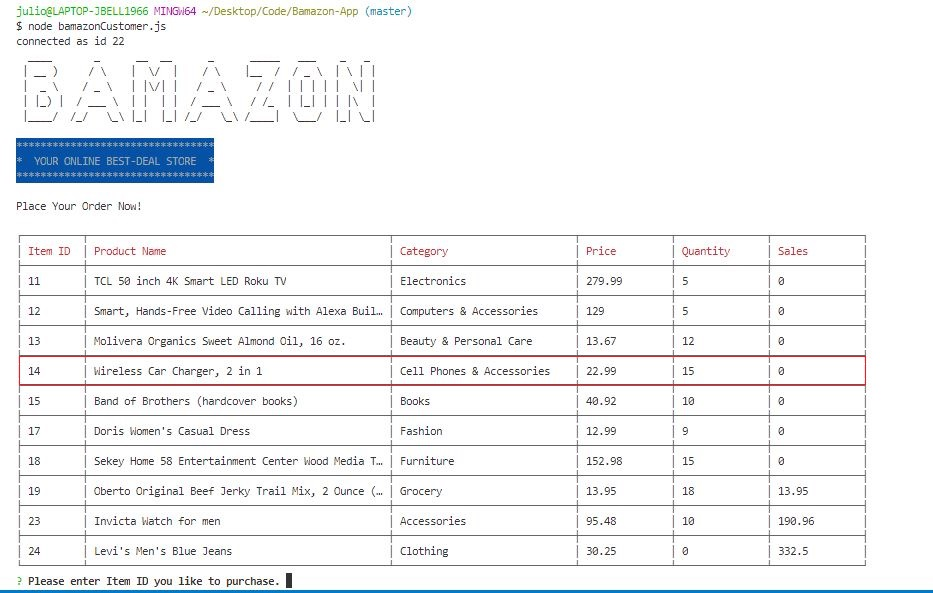
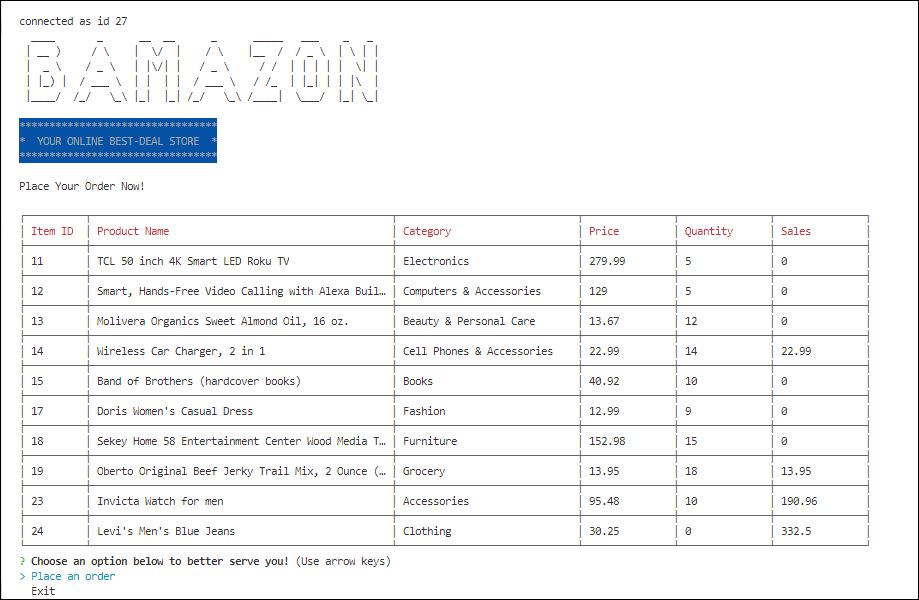
Added customer inquirer to bamazonCustomer.js

Changed region(s): [[0.0, 0.0, 1.0, 1.0]]

diff --git a/bamazonCustomer.js b/bamazonCustomer.js
@@ -58,7 +58,7 @@ function displayInventory(){
 				);
 		}
 		console.log(displayTable.toString());
-		purchasePrompt();
+		customerInquirer();
 	});
 };
 
@@ -139,6 +139,9 @@ function purchaseOrder(ID, amtNeeded){
 					if (answer.confirm) {
 						purchaseOrder(ID,res[0].stock_quantity);
 					}
+					else{
+						return customerInquirer();
+					}
 					
 				 });
 			};
@@ -186,4 +189,21 @@ function updateInventory(id,newStock,sales){
     );
 };
 
-
+function customerInquirer(){
+	inquirer.prompt([{
+		name:"action",
+		type: "list",
+		message: "Choose an option below to better serve you!",
+		choices: ["Place an order", "Exit"]
+	}]).then(function(answers){
+		switch(answers.action){
+            case 'Place an order':
+                purchasePrompt();
+                break;
+            case 'Exit':
+				console.log('Bye!');
+				process.exit(22);
+				break;		
+		}
+	});
+};
